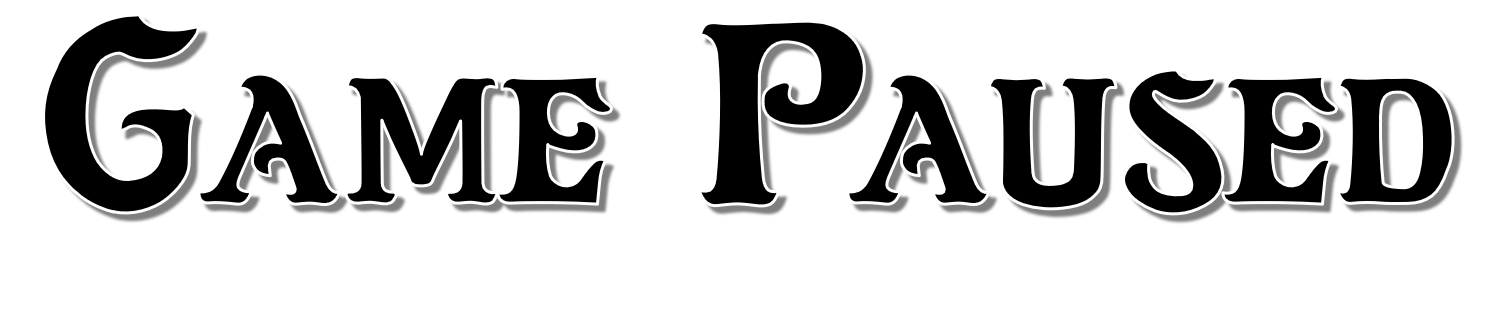
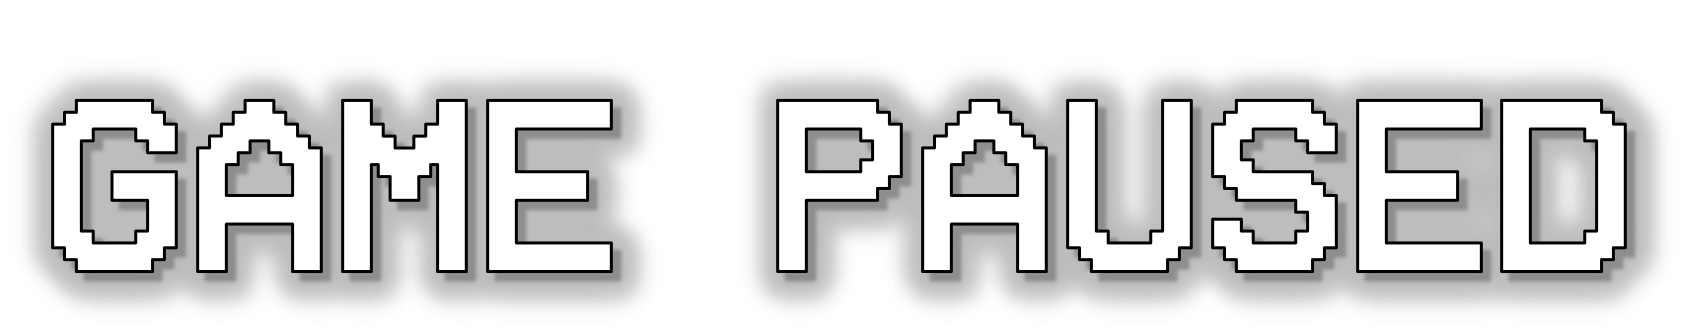
New and improved graphics

diff --git a/core/src/main/java/io/github/pirateducks/screen/PauseScreen.java b/core/src/main/java/io/github/pirateducks/screen/PauseScreen.java
@@ -15,9 +15,6 @@ public class PauseScreen implements Screen  {
 
     private final Array<Sprite> buttons = new Array<>();
 
-    private Texture gameLogoTexture;
-    private Sprite gameLogoSprite;
-
     private Texture pauseTextTexture;
     private Sprite pauseTextSprite;
 
@@ -55,9 +52,6 @@ public class PauseScreen implements Screen  {
             backgroundSprite.draw(batch);
         }
 
-        if (gameLogoSprite != null){
-            gameLogoSprite.draw(batch);
-        }
 
         if (pauseTextSprite != null){
             pauseTextSprite.draw(batch);
@@ -81,7 +75,6 @@ public class PauseScreen implements Screen  {
 
             for (int i=0;i<buttons.size;i++){
                 Sprite button = buttons.get(i);
-
                 // As mouse position coordinates start in top left whereas game coordinates start in bottom left
                 // we need to inverse them
                 int x = Gdx.graphics.getWidth() - Gdx.input.getX();
@@ -117,21 +110,21 @@ public class PauseScreen implements Screen  {
      */
     public void startDisplaying(OrthographicCamera camera){
         // Create game logo sprite
-        gameLogoTexture = new Texture("logo.png");
-        gameLogoSprite = new Sprite(gameLogoTexture);
-        // Scale logo depending on window size
-        float scaleRatio = (gameLogoSprite .getWidth() / camera.viewportWidth) * 1.2f;
-        gameLogoSprite.setSize(gameLogoSprite.getWidth() / scaleRatio, gameLogoSprite.getHeight()/scaleRatio);
-
-        //Centre the logo
-        gameLogoSprite.setPosition(camera.viewportWidth/2 - gameLogoSprite.getWidth()/2,(camera.viewportHeight/2 - gameLogoSprite.getHeight()/2) * 2.2f);
+//        gameLogoTexture = new Texture("logo.png");
+//        gameLogoSprite = new Sprite(gameLogoTexture);
+//        // Scale logo depending on window size
+//        float scaleRatio = (gameLogoSprite .getWidth() / camera.viewportWidth) * 1.5f;
+//        gameLogoSprite.setSize(gameLogoSprite.getWidth() / scaleRatio, gameLogoSprite.getHeight()/scaleRatio);
+//
+//        //Centre the logo
+//        gameLogoSprite.setPosition(camera.viewportWidth/2 - gameLogoSprite.getWidth()/2,(camera.viewportHeight/2 - gameLogoSprite.getHeight()/2) * 2.5f);
 
         pauseTextTexture = new Texture("pauseScreen/pausedText.png");
         pauseTextSprite = new Sprite(pauseTextTexture);
 
-        scaleRatio = (pauseTextSprite.getWidth() / camera.viewportWidth * 2.0f);
+        float scaleRatio = (pauseTextSprite.getWidth() / camera.viewportWidth * 1.8f);
         pauseTextSprite.setSize(pauseTextSprite.getWidth() / scaleRatio, pauseTextSprite.getHeight()/scaleRatio);
-        pauseTextSprite.setPosition(camera.viewportWidth/2 - pauseTextSprite.getWidth()/2,(camera.viewportHeight/2 - pauseTextSprite.getHeight()/2) * 1.2f);
+        pauseTextSprite.setPosition(camera.viewportWidth/2 - pauseTextSprite.getWidth()/2,(camera.viewportHeight/2 - pauseTextSprite.getHeight()/2) * 1.5f);
 
         //Buttons
 
@@ -141,7 +134,7 @@ public class PauseScreen implements Screen  {
         scaleRatio = buttonScaleRatio(continueButtonSprite, camera);
         continueButtonSprite.setSize(continueButtonSprite.getWidth()/scaleRatio,continueButtonSprite.getHeight()/scaleRatio);
 
-        int offset = -200;
+        int offset = -10;
 
         continueButtonSprite.setPosition(camera.viewportWidth/2 - continueButtonSprite.getWidth()/2,(camera.viewportHeight/2-continueButtonSprite.getHeight()/2) + (offset/scaleRatio));
         buttons.add(continueButtonSprite);
@@ -152,7 +145,7 @@ public class PauseScreen implements Screen  {
         scaleRatio = buttonScaleRatio(settingsButtonSprite, camera);
         settingsButtonSprite.setSize(settingsButtonSprite.getWidth()/scaleRatio,settingsButtonSprite.getHeight()/scaleRatio);
 
-        offset -= 320;
+        offset -= 20;
 
         settingsButtonSprite.setPosition(camera.viewportWidth/2 - settingsButtonSprite.getWidth()/2,(camera.viewportHeight/2-settingsButtonSprite.getHeight()/2) + (offset/scaleRatio));
         buttons.add(settingsButtonSprite);
@@ -164,7 +157,7 @@ public class PauseScreen implements Screen  {
         scaleRatio = buttonScaleRatio(quitButtonSprite, camera);
         quitButtonSprite.setSize(quitButtonSprite.getWidth()/scaleRatio,quitButtonSprite.getHeight()/scaleRatio);
 
-        offset -= 320;
+        offset -= 20;
         quitButtonSprite.setPosition(camera.viewportWidth/2 - quitButtonSprite.getWidth()/2,(camera.viewportHeight/2-quitButtonSprite.getHeight()/2) + (offset/scaleRatio));
         buttons.add(quitButtonSprite);
     }
@@ -180,7 +173,6 @@ public class PauseScreen implements Screen  {
      * Use this method to dispose of everything
      */
     public void stopDisplaying(){
-        gameLogoTexture.dispose();
         continueButtonTexture.dispose();
         settingsButtonTexture.dispose();
         quitButtonTexture.dispose();

diff --git a/core/src/main/java/io/github/pirateducks/screen/MainMenuScreen.java b/core/src/main/java/io/github/pirateducks/screen/MainMenuScreen.java
@@ -139,7 +139,7 @@ public class MainMenuScreen implements Screen  {
         scaleRatio = buttonScaleRatio(settingsButtonSprite, camera);
         settingsButtonSprite.setSize(settingsButtonSprite.getWidth()/scaleRatio,settingsButtonSprite.getHeight()/scaleRatio);
 
-        offset -= 320;
+        offset -= 20;
 
         settingsButtonSprite.setPosition(camera.viewportWidth/2 - settingsButtonSprite.getWidth()/2,(camera.viewportHeight/2-settingsButtonSprite.getHeight()/2) + (offset/scaleRatio));
         buttons.add(settingsButtonSprite);
@@ -151,7 +151,7 @@ public class MainMenuScreen implements Screen  {
         scaleRatio = buttonScaleRatio(quitButtonSprite, camera);
         quitButtonSprite.setSize(quitButtonSprite.getWidth()/scaleRatio,quitButtonSprite.getHeight()/scaleRatio);
 
-        offset -= 320;
+        offset -= 20;
         quitButtonSprite.setPosition(camera.viewportWidth/2 - quitButtonSprite.getWidth()/2,(camera.viewportHeight/2-quitButtonSprite.getHeight()/2) + (offset/scaleRatio));
         buttons.add(quitButtonSprite);
     }
